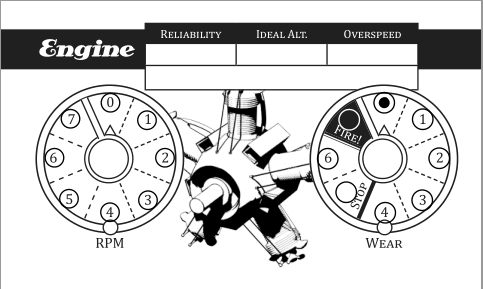
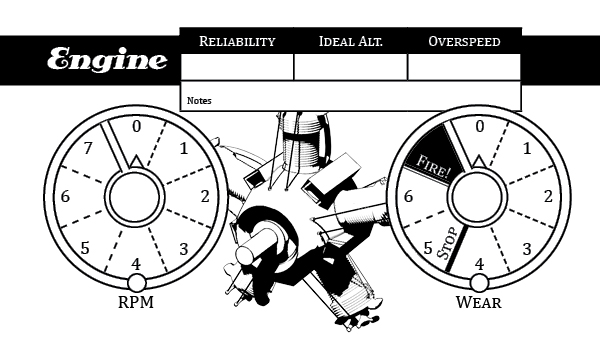
Update Engine Card. Update warnings on dashboard to be more visible.

Changed region(s): [[0.0, 0.0, 1.0, 1.0]]

diff --git a/Helicopter/plane_builder.js b/Helicopter/plane_builder.js
@@ -13164,11 +13164,11 @@ class Cards {
         this.weap_image.height = 291;
         // this.weap_image.src = './Cards/Weapon.png';
         this.eng_canvas = document.createElement("CANVAS");
-        this.eng_canvas.width = 483;
-        this.eng_canvas.height = 289;
+        this.eng_canvas.width = 600;
+        this.eng_canvas.height = 360;
         this.eng_image = document.getElementById("eng_img");
-        this.eng_image.width = 483;
-        this.eng_image.height = 289;
+        this.eng_image.width = 600;
+        this.eng_image.height = 360;
         // this.eng_image.src = './Cards/Engine.png';
         this.rad_canvas = document.createElement("CANVAS");
         this.rad_canvas.width = 479;
@@ -13341,19 +13341,20 @@ class Cards {
             }
         }
         context.fillText(str, 335, 558, 375);
-        context.font = "8px Balthazar";
+        context.font = "14px Balthazar";
+        var max_idx = 6;
         var idx = 1;
         for (let r = 0; r < this.acft_data.warnings.length; ++r) {
             if (this.acft_data.warnings[r].source == lu("Armour"))
                 continue;
             let str = this.acft_data.warnings[r].source + ": " + this.acft_data.warnings[r].warning;
-            if (idx == 9 && this.acft_data.warnings.length > r + 1) {
-                context.fillText(lu("Cards Too Many Warnings Warning"), 335, 673 + idx * 9, 375);
+            if (idx == max_idx && this.acft_data.warnings.length > r + 1) {
+                context.fillText(lu("Cards Too Many Warnings Warning"), 335, 673 + idx * 14, 370);
             }
-            else if (idx > 9) {
+            else if (idx > max_idx) {
             }
             else {
-                context.fillText(str, 335, 673 + idx * 9, 375);
+                context.fillText(str, 335, 673 + idx * 14, 370);
             }
             idx++;
         }
@@ -13370,7 +13371,7 @@ class Cards {
         context.font = "15px Balthazar";
         var ammo = "";
         if (this.weap_data.reload > 0) {
-            ammo += lu("Cards Gun String", (this.weap_data.ammo / this.weap_data.reload).toString(), this.weap_data.reload.toString());
+            ammo += lu("Cards Gun String Reload", (this.weap_data.ammo / this.weap_data.reload).toString(), this.weap_data.reload.toString());
             this.weap_data.tags.push(lu("Weapon Tag Reload", this.weap_data.reload.toString()));
         }
         else {
@@ -13407,25 +13408,25 @@ class Cards {
         context.font = "18px Balthazar";
         context.fillStyle = "#000";
         context.strokeStyle = "#000";
-        context.fillText(this.eng_data.reliability.toString(), 190, 62, 90);
+        context.fillText(this.eng_data.reliability.toString(), 235, 75, 110);
         var alt_string = this.eng_data.min_IAF.toString() + "-" + (this.eng_data.min_IAF + this.eng_data.altitude).toString();
-        context.fillText(alt_string, 280, 62, 90);
-        context.fillText(this.eng_data.overspeed.toString(), 370, 62, 90);
+        context.fillText(alt_string, 347, 75, 110);
+        context.fillText(this.eng_data.overspeed.toString(), 480, 75, 110);
         var note_str = "";
         for (let i = 0; i < this.eng_data.notes.length; i++) {
             if (i != 0)
                 note_str += ", ";
             note_str += this.eng_data.notes[i];
         }
-        context.fillText(note_str, 280, 84, 270);
+        context.fillText(note_str, 365, 105, 306);
         if (this.eng_data.radiator >= 0) {
-            context.fillText(lu("Cards Uses Radiator", this.eng_data.radiator + 1), 109, 280, 270);
+            context.fillText(lu("Cards Uses Radiator", this.eng_data.radiator + 1), 109, 340, 270);
         }
         context.textAlign = "right";
-        context.font = "25px Balthazar";
+        context.font = "30px Balthazar";
         context.fillStyle = "#fff";
         context.strokeStyle = "#fff";
-        context.fillText("#" + engine_num.toString(), 37, 56, 35);
+        context.fillText("#" + engine_num.toString(), 37, 67, 35);
         this.download(this.name + "_Engine_" + engine_num.toString(), this.eng_canvas);
     }
     SaveRadiator(radiator_num) {

diff --git a/PlaneBuilder/disp/Cards.ts b/PlaneBuilder/disp/Cards.ts
@@ -103,11 +103,11 @@ class Cards {
         // this.weap_image.src = './Cards/Weapon.png';
 
         this.eng_canvas = document.createElement("CANVAS") as HTMLCanvasElement;
-        this.eng_canvas.width = 483;
-        this.eng_canvas.height = 289;
+        this.eng_canvas.width = 600;
+        this.eng_canvas.height = 360;
         this.eng_image = document.getElementById("eng_img") as HTMLImageElement;
-        this.eng_image.width = 483;
-        this.eng_image.height = 289;
+        this.eng_image.width = 600;
+        this.eng_image.height = 360;
         // this.eng_image.src = './Cards/Engine.png';
 
         this.rad_canvas = document.createElement("CANVAS") as HTMLCanvasElement;
@@ -305,18 +305,19 @@ class Cards {
         context.fillText(str, 335, 558, 375);
 
 
-        context.font = "8px Balthazar";
+        context.font = "14px Balthazar";
+        var max_idx = 6;
         var idx = 1;
         for (let r = 0; r < this.acft_data.warnings.length; ++r) {
             if (this.acft_data.warnings[r].source == lu("Armour"))
                 continue;
             let str = this.acft_data.warnings[r].source + ": " + this.acft_data.warnings[r].warning;
-            if (idx == 9 && this.acft_data.warnings.length > r + 1) {
-                context.fillText(lu("Cards Too Many Warnings Warning"), 335, 673 + idx * 9, 375);
-            } else if (idx > 9) {
+            if (idx == max_idx && this.acft_data.warnings.length > r + 1) {
+                context.fillText(lu("Cards Too Many Warnings Warning"), 335, 673 + idx * 14, 370);
+            } else if (idx > max_idx) {
 
             } else {
-                context.fillText(str, 335, 673 + idx * 9, 375);
+                context.fillText(str, 335, 673 + idx * 14, 370);
             }
             idx++;
         }
@@ -338,7 +339,7 @@ class Cards {
         context.font = "15px Balthazar";
         var ammo = "";
         if (this.weap_data.reload > 0) {
-            ammo += lu("Cards Gun String",
+            ammo += lu("Cards Gun String Reload",
                 (this.weap_data.ammo / this.weap_data.reload).toString(),
                 this.weap_data.reload.toString());
             this.weap_data.tags.push(lu("Weapon Tag Reload", this.weap_data.reload.toString()));
@@ -384,10 +385,10 @@ class Cards {
         context.font = "18px Balthazar";
         context.fillStyle = "#000";
         context.strokeStyle = "#000";
-        context.fillText(this.eng_data.reliability.toString(), 190, 62, 90);
+        context.fillText(this.eng_data.reliability.toString(), 235, 75, 110);
         var alt_string = this.eng_data.min_IAF.toString() + "-" + (this.eng_data.min_IAF + this.eng_data.altitude).toString();
-        context.fillText(alt_string, 280, 62, 90);
-        context.fillText(this.eng_data.overspeed.toString(), 370, 62, 90);
+        context.fillText(alt_string, 347, 75, 110);
+        context.fillText(this.eng_data.overspeed.toString(), 480, 75, 110);
 
         var note_str = "";
         for (let i = 0; i < this.eng_data.notes.length; i++) {
@@ -395,17 +396,17 @@ class Cards {
                 note_str += ", ";
             note_str += this.eng_data.notes[i];
         }
-        context.fillText(note_str, 280, 84, 270);
+        context.fillText(note_str, 365, 105, 306);
 
         if (this.eng_data.radiator >= 0) {
-            context.fillText(lu("Cards Uses Radiator", this.eng_data.radiator + 1), 109, 280, 270);
+            context.fillText(lu("Cards Uses Radiator", this.eng_data.radiator + 1), 109, 340, 270);
         }
 
         context.textAlign = "right";
-        context.font = "25px Balthazar";
+        context.font = "30px Balthazar";
         context.fillStyle = "#fff";
         context.strokeStyle = "#fff";
-        context.fillText("#" + engine_num.toString(), 37, 56, 35);
+        context.fillText("#" + engine_num.toString(), 37, 67, 35);
 
         this.download(this.name + "_Engine_" + engine_num.toString(), this.eng_canvas);
     }
